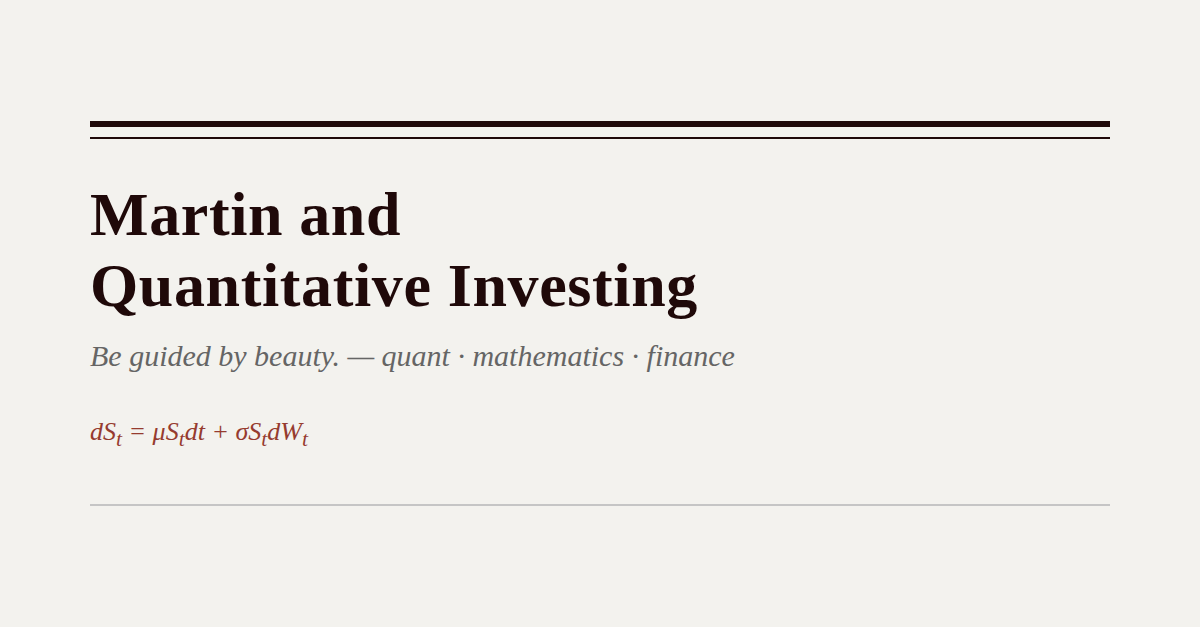
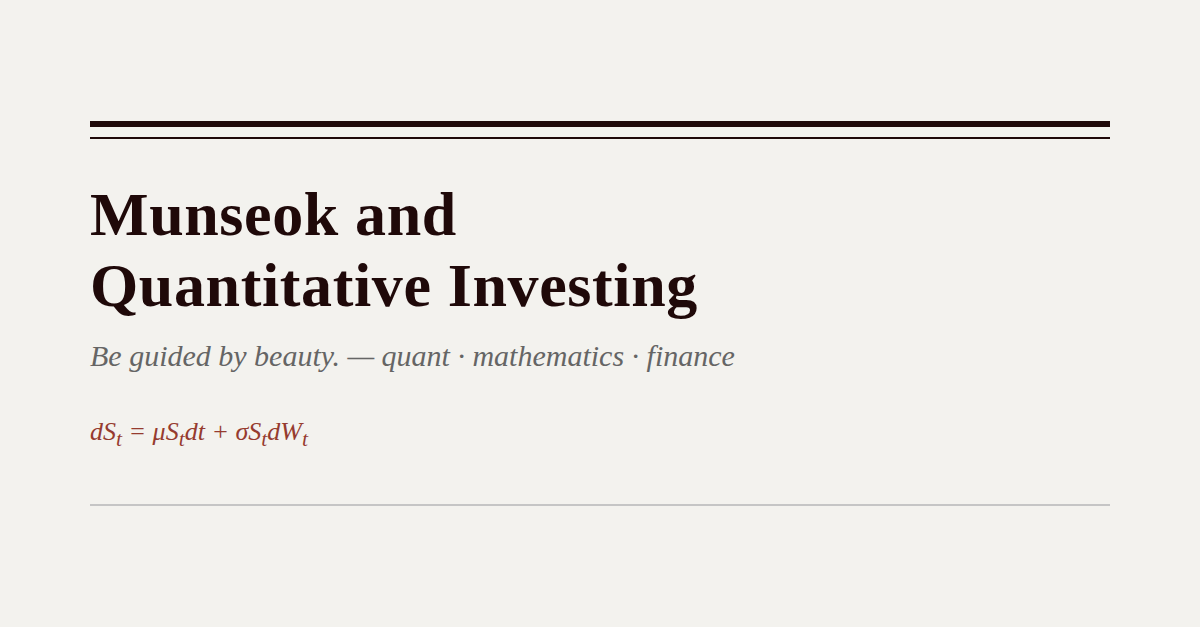
블로그 이름 변경: Martin → Munseok and Quantitative Investing

Changed region(s): [[0.1233, 0.303, 0.4008, 0.3939]]

diff --git a/layouts/index.html b/layouts/index.html
@@ -2,11 +2,11 @@
 <html lang="ko">
 <head>
   <meta charset="utf-8">
-  <title>Martin and Quantitative Investing</title>
+  <title>Munseok and Quantitative Investing</title>
   <meta http-equiv="refresh" content="0; url=/blog/">
   <link rel="canonical" href="{{ "blog/" | absURL }}">
 </head>
 <body>
-  <p><a href="/blog/">Martin and Quantitative Investing</a>으로 이동 중…</p>
+  <p><a href="/blog/">Munseok and Quantitative Investing</a>으로 이동 중…</p>
 </body>
 </html>

diff --git a/README.md b/README.md
@@ -1,4 +1,4 @@
-# Martin and Quantitative Investing
+# Munseok and Quantitative Investing
 
 Hugo + [Terminal 테마](https://github.com/panr/hugo-theme-terminal) 기반 블로그.
 https://chlanstjr0301.github.io
